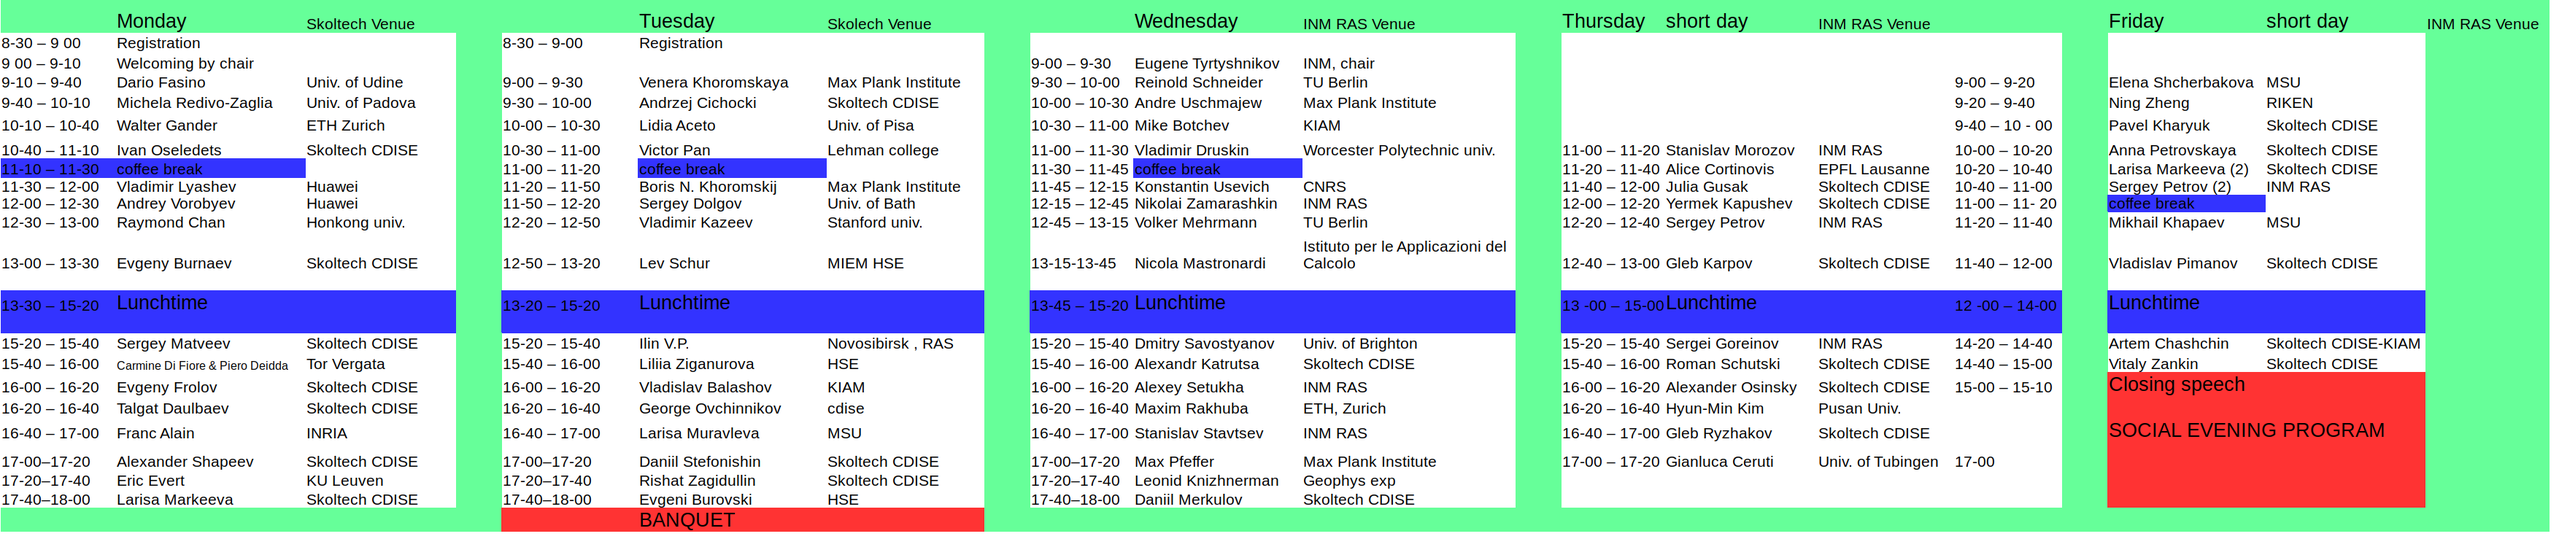
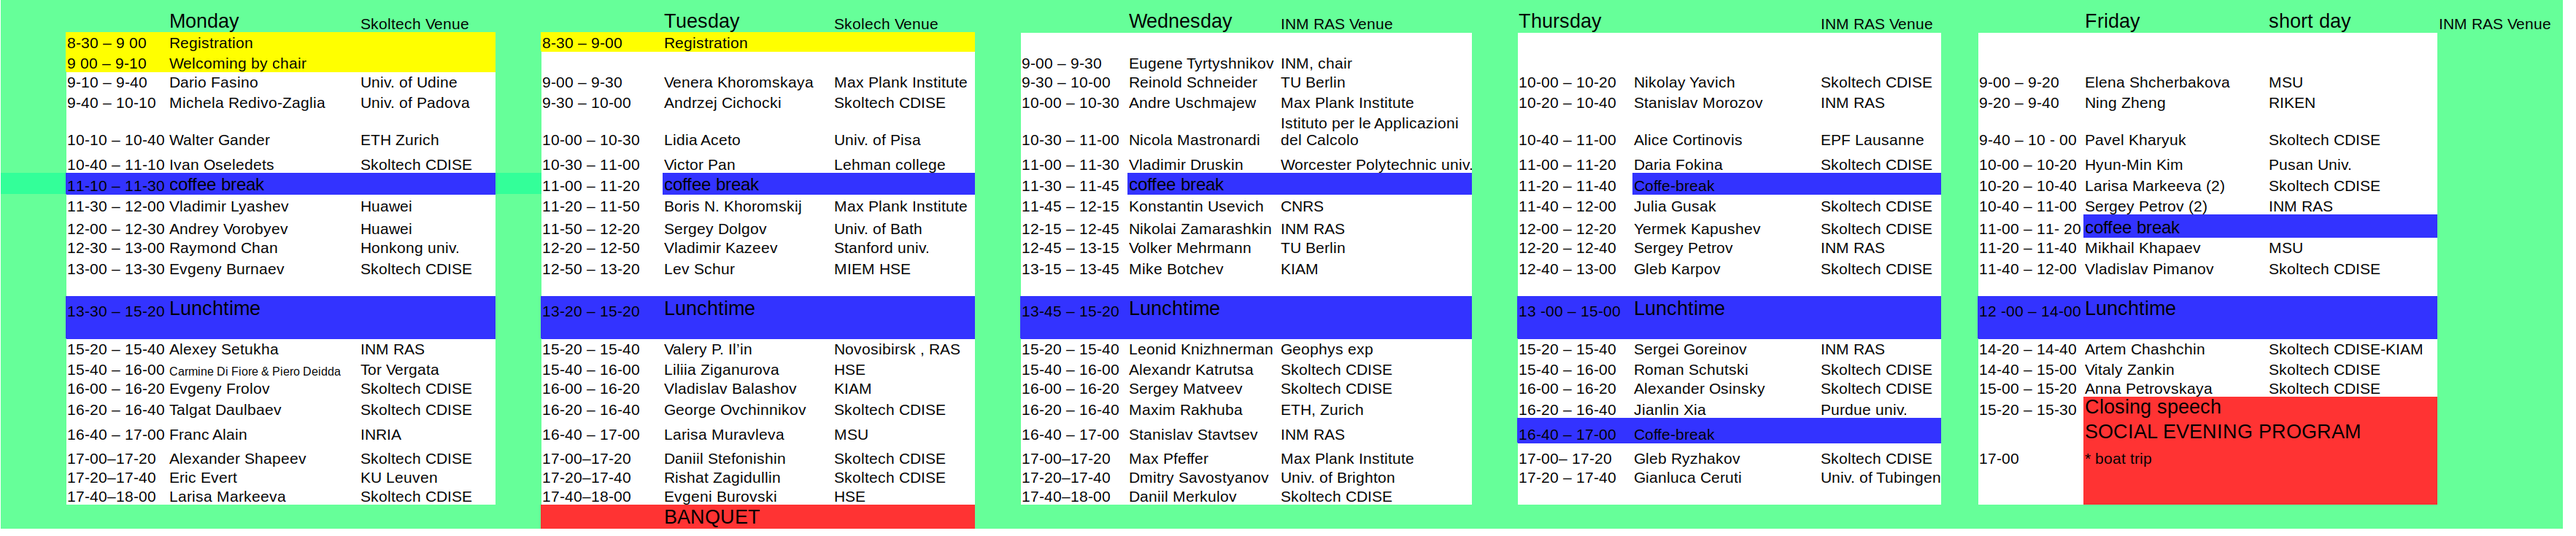
update schedule

diff --git a/mmma-2019/index.html b/mmma-2019/index.html
@@ -117,7 +117,7 @@
               <li><strong>Valery P. Ilin</strong>, Novosibirsk, RAS</li>
               <!-- <li><strong>In progress...</strong></li> -->
             </ul>
-            <a class="text-dark mylink" href="assets/images/schedule.png" target="_blank">Preliminary schedule, updated July 22</a>
+            <a class="text-dark mylink" href="assets/images/schedule.png" target="_blank">Preliminary schedule, updated July 29</a>
             <!-- <div class="text-justify mb-3"><strong>+</strong> Faculty members and senior researchers of CDISE (Oseledets, Cichocki)</div>
             <div class="text-justify"><strong>+</strong> Posdocs and PhD students of research Group of Professors:
               <ul>

diff --git a/mmma2019/index.html b/mmma2019/index.html
@@ -117,7 +117,7 @@
               <li><strong>Valery P. Ilin</strong>, Novosibirsk, RAS</li>
               <!-- <li><strong>In progress...</strong></li> -->
             </ul>
-            <a class="text-dark mylink" href="assets/images/schedule.png" target="_blank">Preliminary schedule, updated July 22</a>
+            <a class="text-dark mylink" href="assets/images/schedule.png" target="_blank">Preliminary schedule, updated July 29</a>
             <!-- <div class="text-justify mb-3"><strong>+</strong> Faculty members and senior researchers of CDISE (Oseledets, Cichocki)</div>
             <div class="text-justify"><strong>+</strong> Posdocs and PhD students of research Group of Professors:
               <ul>
